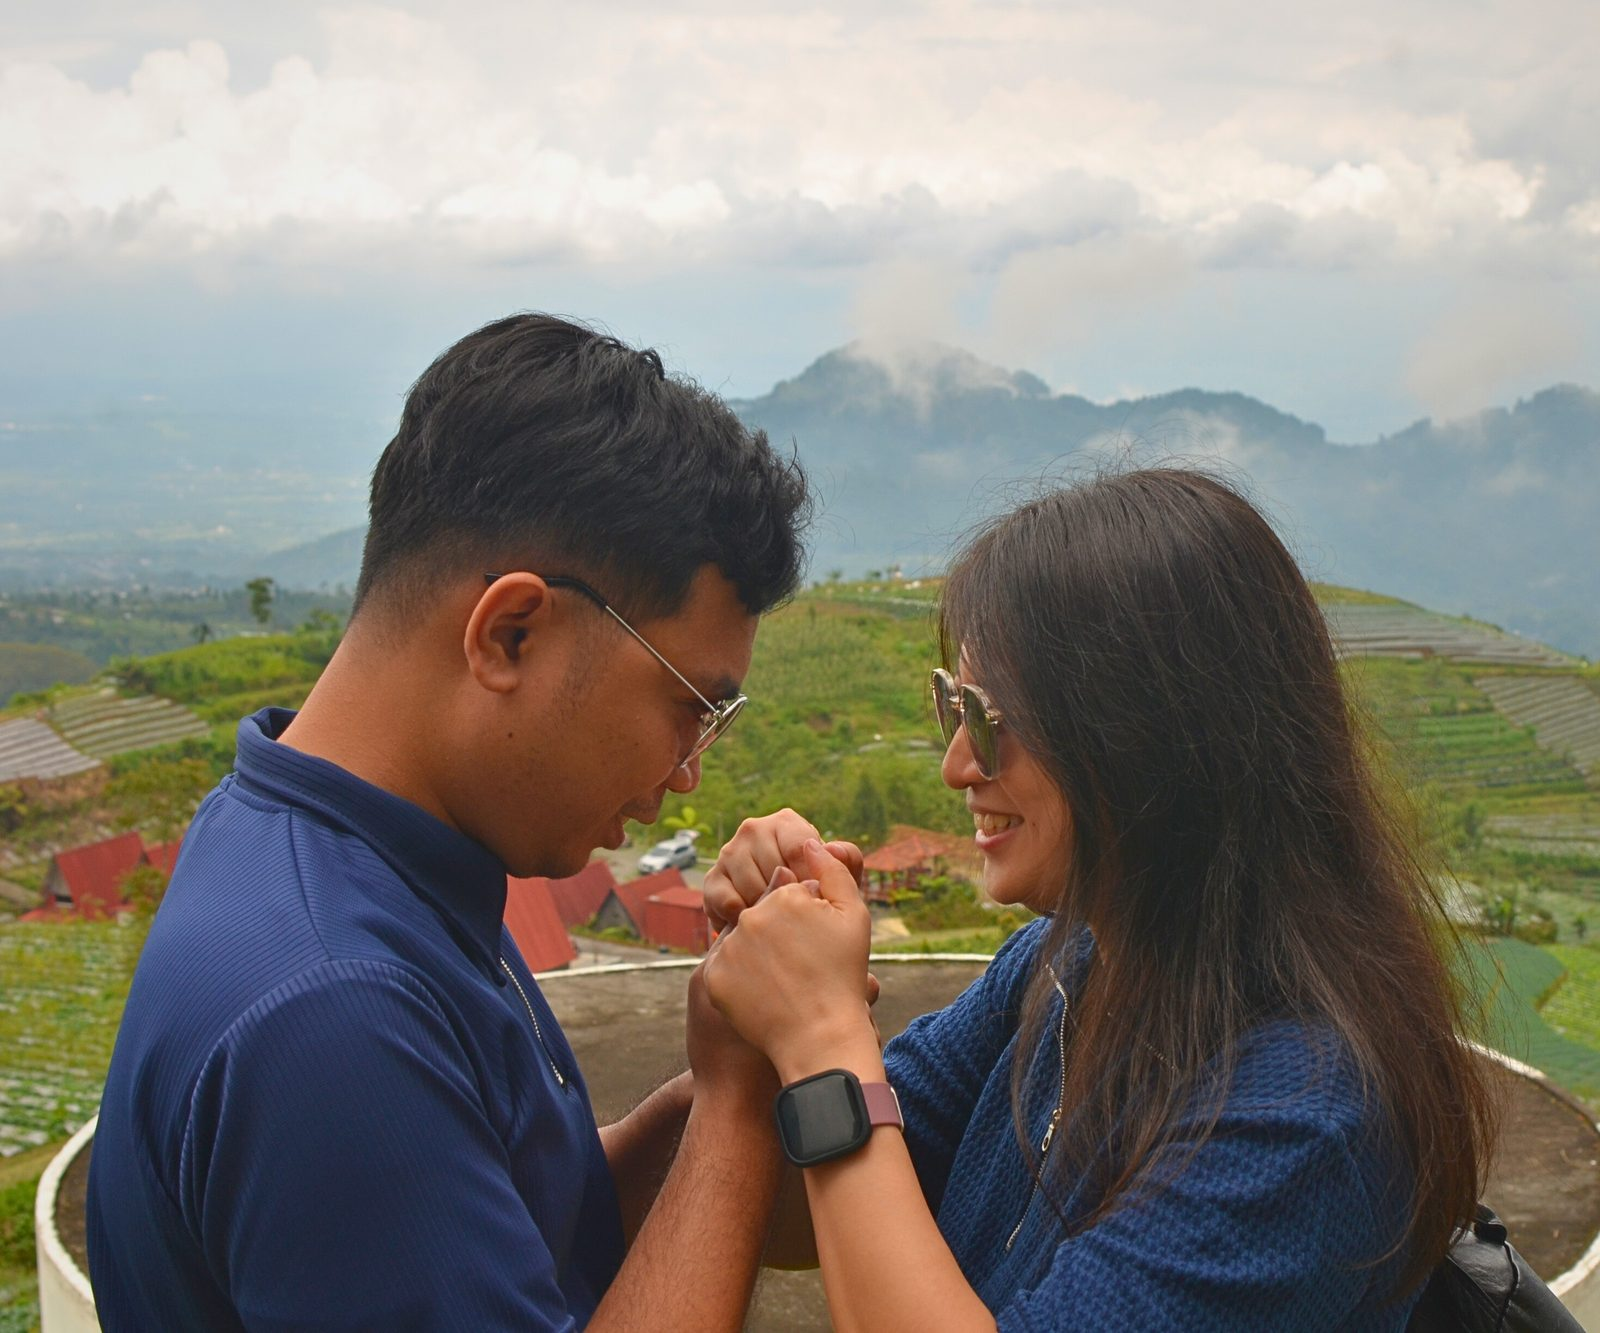
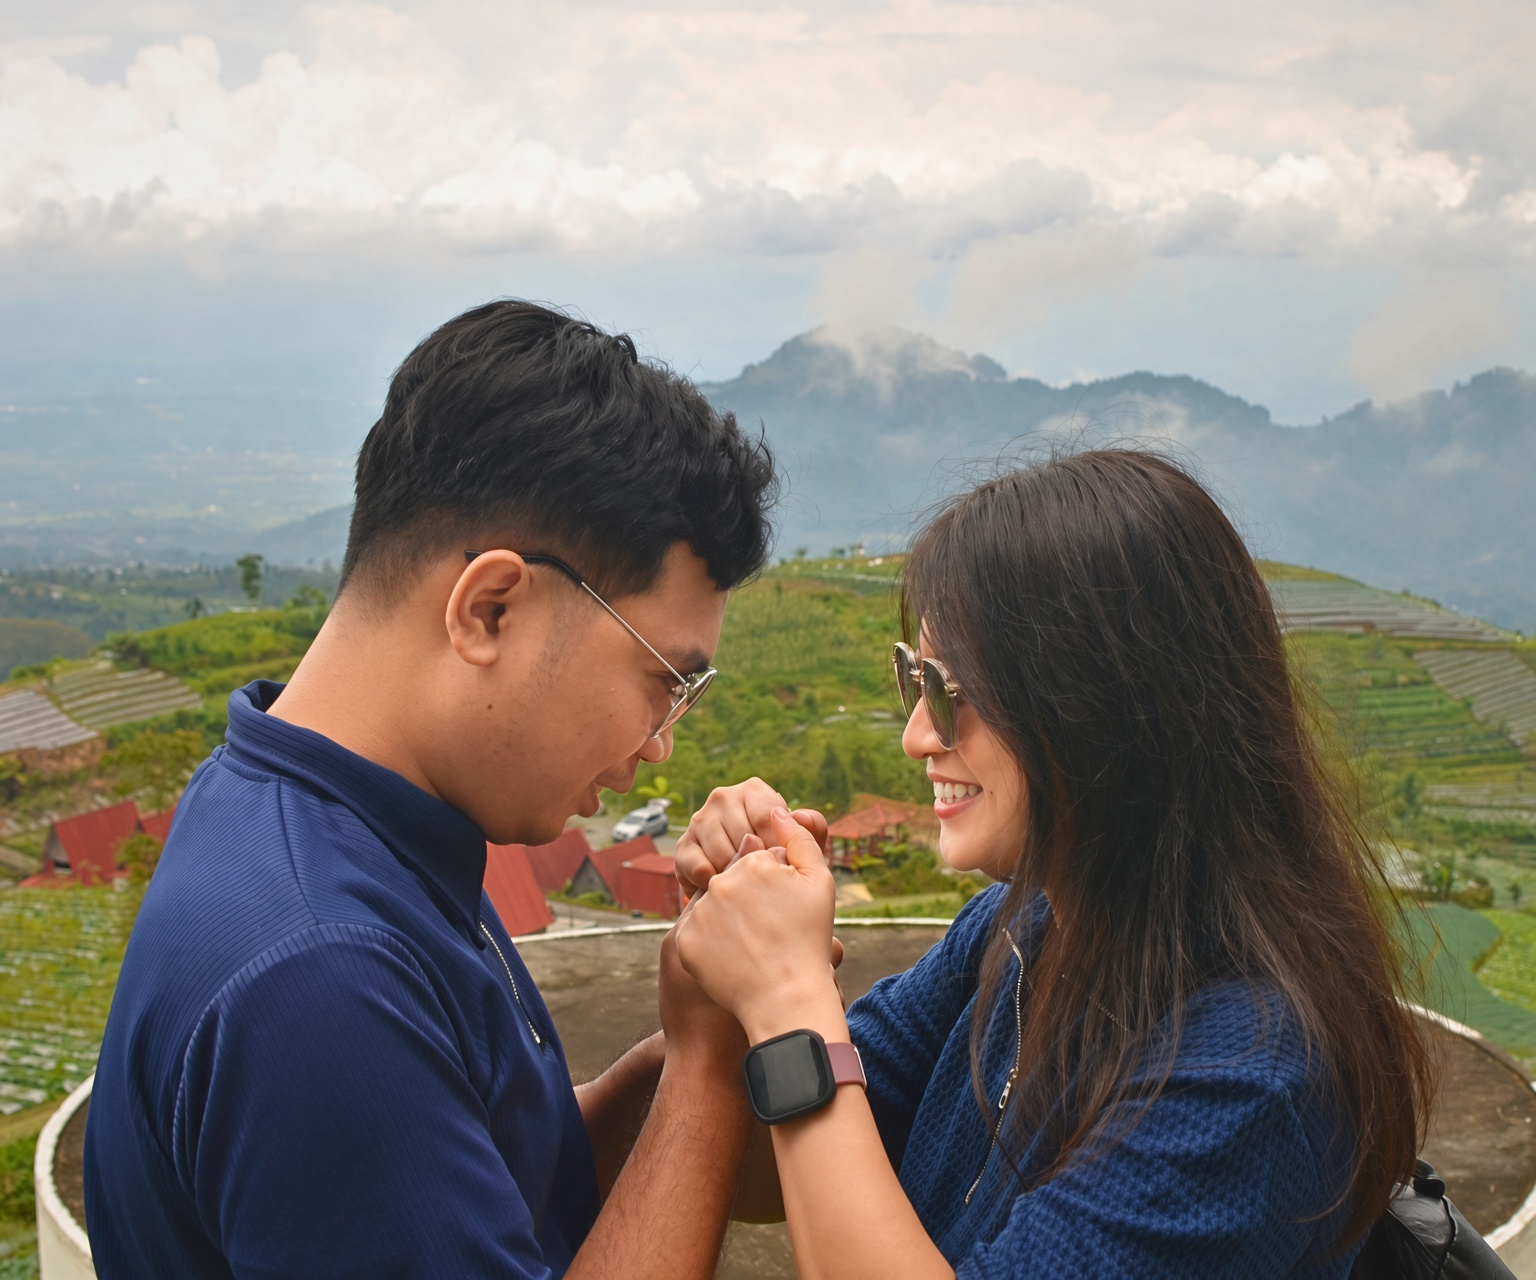
update

diff --git a/index.html b/index.html
@@ -295,7 +295,7 @@
         .container {
             position: relative;
             z-index: 1;
-            max-width: 100%;
+            max-width: 450px;
             margin: 0 auto;
             background: transparent;
             box-shadow: 0 0 40px rgba(198, 160, 217, 0.3);
@@ -1284,50 +1284,50 @@
             }
         }
 
-        /* Responsive untuk tablet */
-        @media (min-width: 768px) {
+        /* Responsive untuk tablet — dinonaktifkan agar tampilan tetap mobile di layar lebar */
+        /* @media (min-width: 768px) {
             .container {
-                /*max-width: 768px;*/
+                max-width: 768px;
             }
-            
+
             .cover-names {
                 font-size: 64px;
             }
-            
+
             .hero h1 {
                 font-size: 42px;
             }
-            
+
             .couple-names {
                 font-size: 56px;
             }
-            
+
             .section-title {
                 font-size: 40px;
             }
-            
+
             .countdown {
                 grid-template-columns: repeat(4, 1fr);
             }
-            
+
             .countdown-number {
                 font-size: 60px;
             }
-            
+
             .gift-cards {
                 flex-direction: row;
             }
-			
+
 			.countdown-container {
 				margin-left: 60px;
 				margin-right: 60px;
 			}
-			
+
 			.hero-names {
                 font-size: 48px;
             }
-        }
-		
+        } */
+
 		@media (max-width: 768px) {
             .slide-title {
                 font-size: 2em;
@@ -1340,26 +1340,26 @@
             }
         }
 
-        /* Responsive untuk desktop */
-        @media (min-width: 1024px) {
+        /* Responsive untuk desktop — dinonaktifkan agar tampilan tetap mobile di layar lebar */
+        /* @media (min-width: 1024px) {
             .container {
-                /*max-width: 1080px;*/
+                max-width: 1080px;
             }
-            
+
             section {
                 padding: 80px 60px;
             }
-            
+
             .profiles {
 				justify-content: space-around;
                 flex-direction: row;
                 gap: 20px;
             }
-            
+
             .events {
                 flex-direction: row;
             }
-        }
+        } */
 
 		@media (max-width: 480px) {
             .photo-grid {
@@ -2425,7 +2425,7 @@
                 if (toName) {
                     const inviteeEl = document.createElement('div');
                     inviteeEl.className = 'invitee-name';
-                    inviteeEl.textContent = toName + ' & Partner';
+                    inviteeEl.innerHTML = escapeHtml(toName) + '<br>&<br>Partner';
                     guestNameEl.insertAdjacentElement('afterend', inviteeEl);
                 } else {
                     guestNameEl.remove();
